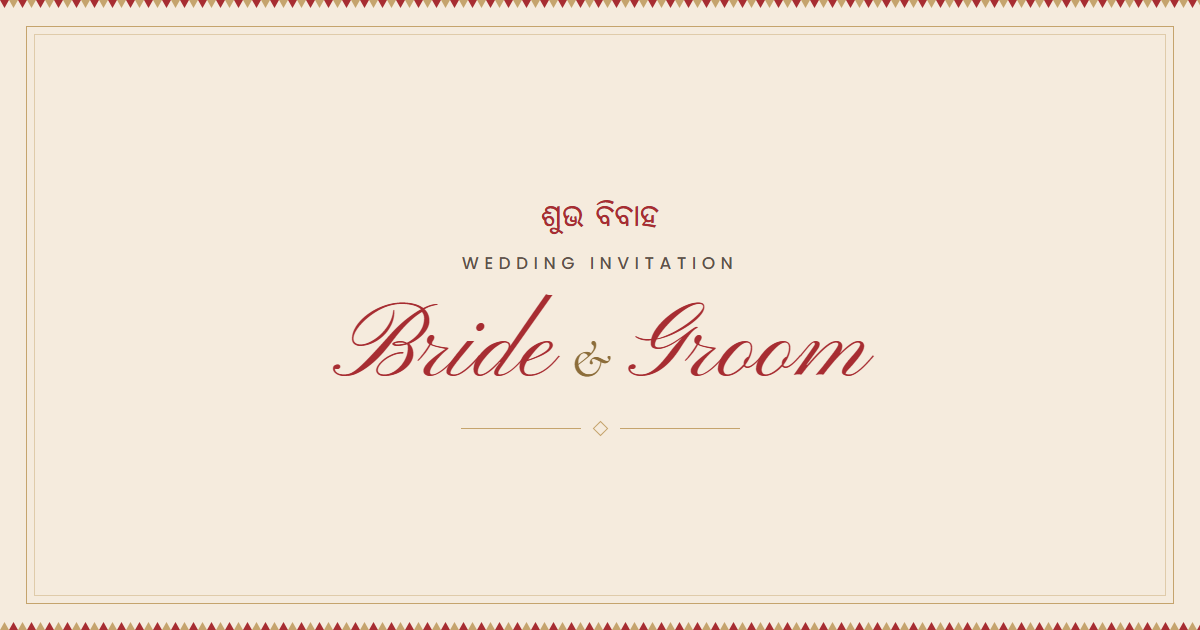
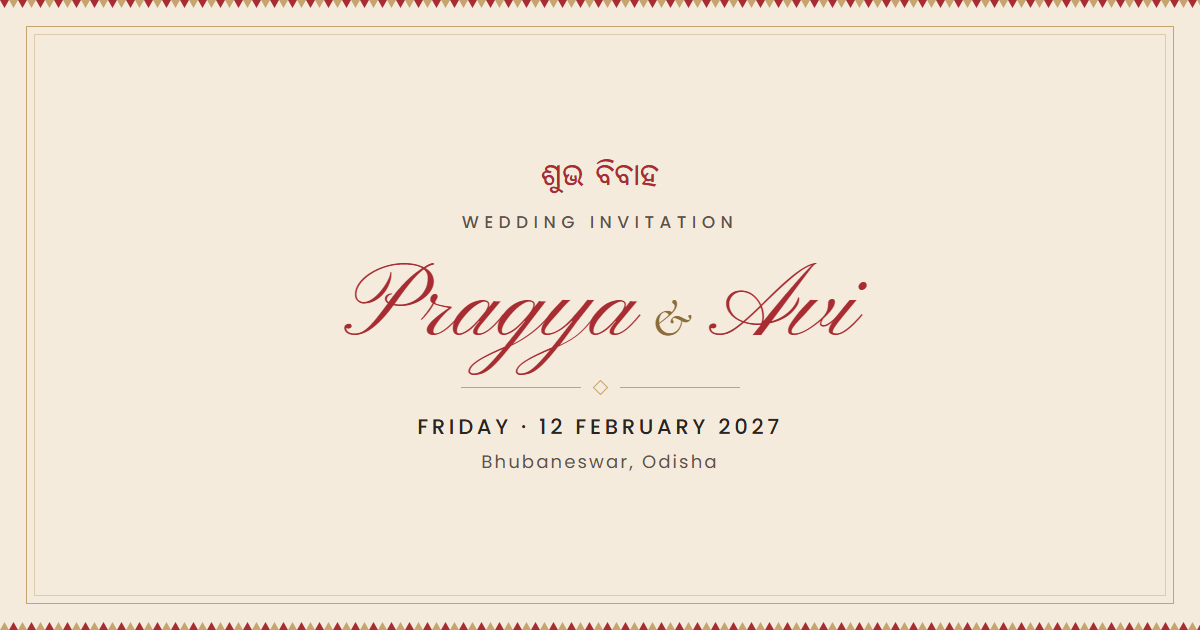
Invitation card: rebalanced, with a larger trinity, the date and gentle motion
- The toran and the trinity are lifted out of the card into their own
  layers (public/art/invitation/toran.webp, trinity.webp; the card, now
  public/art/invitation/card.jpg, filled with its own paper where they
  were). Border, banana trees, kalash, strings and lamps unchanged.
- Three bands sharing the panel: top art about 27% (the trinity 150-160px
  wide in a soft golden glow, below the toran), the words centred in the
  middle, the rangoli and "Tap the rangoli" about 27%
- Names 52px with a 28px gold "&"; under "are getting married": a small gold
  divider, "12 · 02 · 2027" (Cinzel 15px, 0.2em, maroon) from the wedding
  date and "Bhubaneswar, Odisha" (italic 13px, muted brown) from the venue
- Rangoli 30% larger (124 to 161px) and closer to the words
- Motion (transform and opacity only): the toran sways ±1deg from its top
  centre (4s); the lamps' flames flicker (scale 0.94-1.06, 1.2s, out of
  step); the rangoli turns slowly (360deg in 40s, it stops where it is when
  tapped) with a thin gold ring pulsing behind it (every 2.2s) until
  tapped. All off with reduced motion.
- The card stays one screen tall; on a very short phone it grows a little
  and scrolls, as before.

diff --git a/src/config/wedding.ts b/src/config/wedding.ts
@@ -349,15 +349,15 @@ pm run og. */
 
 export const wedding: WeddingConfig = {
   // ── EXAMPLE DATA ── The template ships with a sample wedding (Avi &
-  // Pragyan, Friday 12 February 2027, Bhubaneswar) so every section shows
+  // Pragya, Friday 12 February 2027, Bhubaneswar) so every section shows
   // working. Everything marked DEMO is made up: replace it with the real
   // details, then set site.demo to false (README: "Before you publish").
   couple: {
-    bride: { displayName: "Pragyan", fullName: null }, // DEMO (the page title)
+    bride: { displayName: "Pragya", fullName: null }, // DEMO (the page title)
     groom: { displayName: "Avi", fullName: null }, // DEMO (the page title)
     invocation: "|| Om Ganeshaya Namah ||",
     invite: "Together with their families, we joyfully invite you to the wedding of",
-    hashtag: "#AviWedsPragyan", // DEMO
+    hashtag: "#AviWedsPragya", // DEMO
     // DEMO — the example place, under the date block on the couple card
     place: "Jagannath Kalyan Mandap, Bhubaneswar, Odisha",
     quote: "Two souls, one journey, blessed by Lord Jagannath.",
@@ -372,7 +372,7 @@ export const wedding: WeddingConfig = {
     heading: "|| Jai Jagannath ||",
     greeting: "Dear {guest},",
     saveTheDate: "Save the Date",
-    names: ["Avi", "Pragyan"], // DEMO
+    names: ["Avi", "Pragya"], // DEMO
     announcement: "are getting married",
   },
   countdown: {
@@ -400,7 +400,7 @@ export const wedding: WeddingConfig = {
     tagline: "Bound by Love, Blessed by Family",
     art: {
       src: "/art/family/family-portrait.webp",
-      alt: "Avi and Pragyan in gold crowns, hands folded in greeting, with the groom's parents beside him and the bride's parents beside her",
+      alt: "Avi and Pragya in gold crowns, hands folded in greeting, with the groom's parents beside him and the bride's parents beside her",
       w: 1264,
       h: 848,
     },

diff --git a/README.md b/README.md
@@ -25,7 +25,7 @@ https://your-site.example/?guest=Priya%20Mishra
 
 Everything a guest reads lives in [`src/config/wedding.ts`](src/config/wedding.ts).
 
-**It ships with an example wedding.** So every section can be seen working, the template is filled with a complete sample: Avi & Pragyan, Friday 12 February 2027 (lagna 7:00 PM), Jagannath Kalyan Mandap in Bhubaneswar, nine ceremonies, six contacts and three wishes. Every example value is marked `DEMO` in the config. While `site.demo` is `true`:
+**It ships with an example wedding.** So every section can be seen working, the template is filled with a complete sample: Avi & Pragya, Friday 12 February 2027 (lagna 7:00 PM), Jagannath Kalyan Mandap in Bhubaneswar, nine ceremonies, six contacts and three wishes. Every example value is marked `DEMO` in the config. While `site.demo` is `true`:
 
 - the closing note ends with one quiet line saying it's an example invitation;
 - the three sample wishes carry an "Example" mark;
@@ -43,7 +43,7 @@ Replace every `DEMO` value using the checklist below, then set `site.demo` to `f
 
 | Item | Where |
 |---|---|
-| Couple's names (DEMO: Avi & Pragyan — also the page title) | `couple.bride` / `couple.groom`, `invitation.names` |
+| Couple's names (DEMO: Avi & Pragya — also the page title) | `couple.bride` / `couple.groom`, `invitation.names` |
 | Couple section wording (invocation, invite line, quote; DEMO hashtag and place — the date block comes from `wedding.dateTime`) | `couple` |
 | Wedding date & lagna time (DEMO: `"2027-02-12T19:00"`) — drives the countdown, every date shown and Add to Calendar | `wedding.dateTime` |
 | Invitation card wording and names (DEMO names) | `invitation` |
